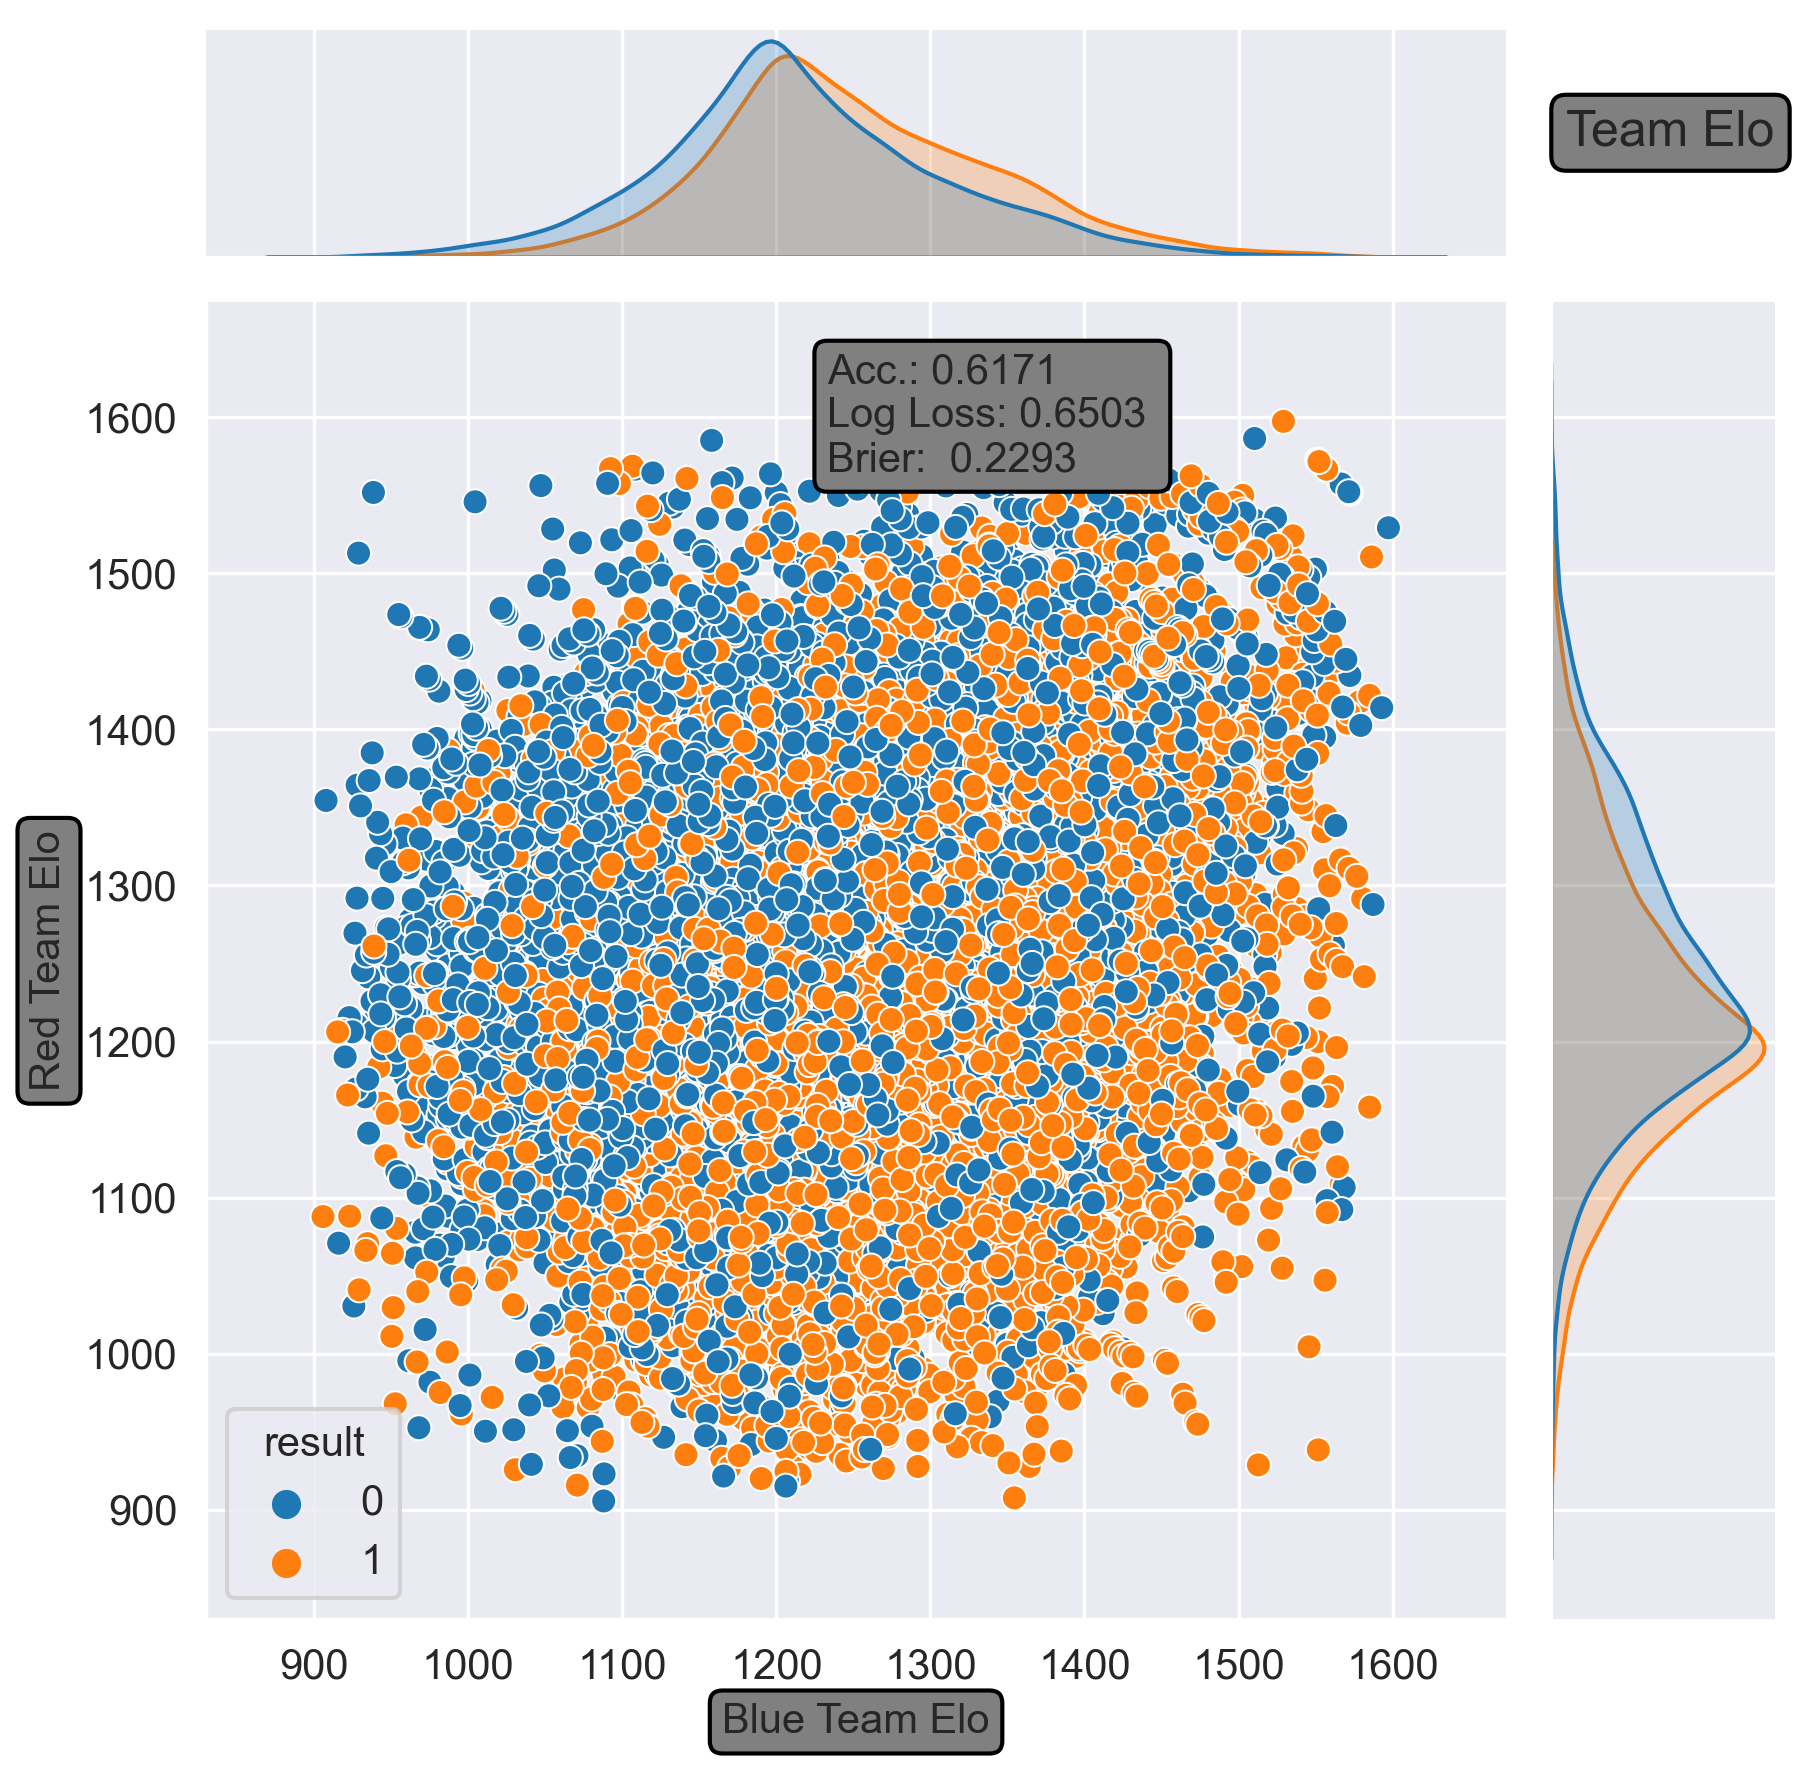
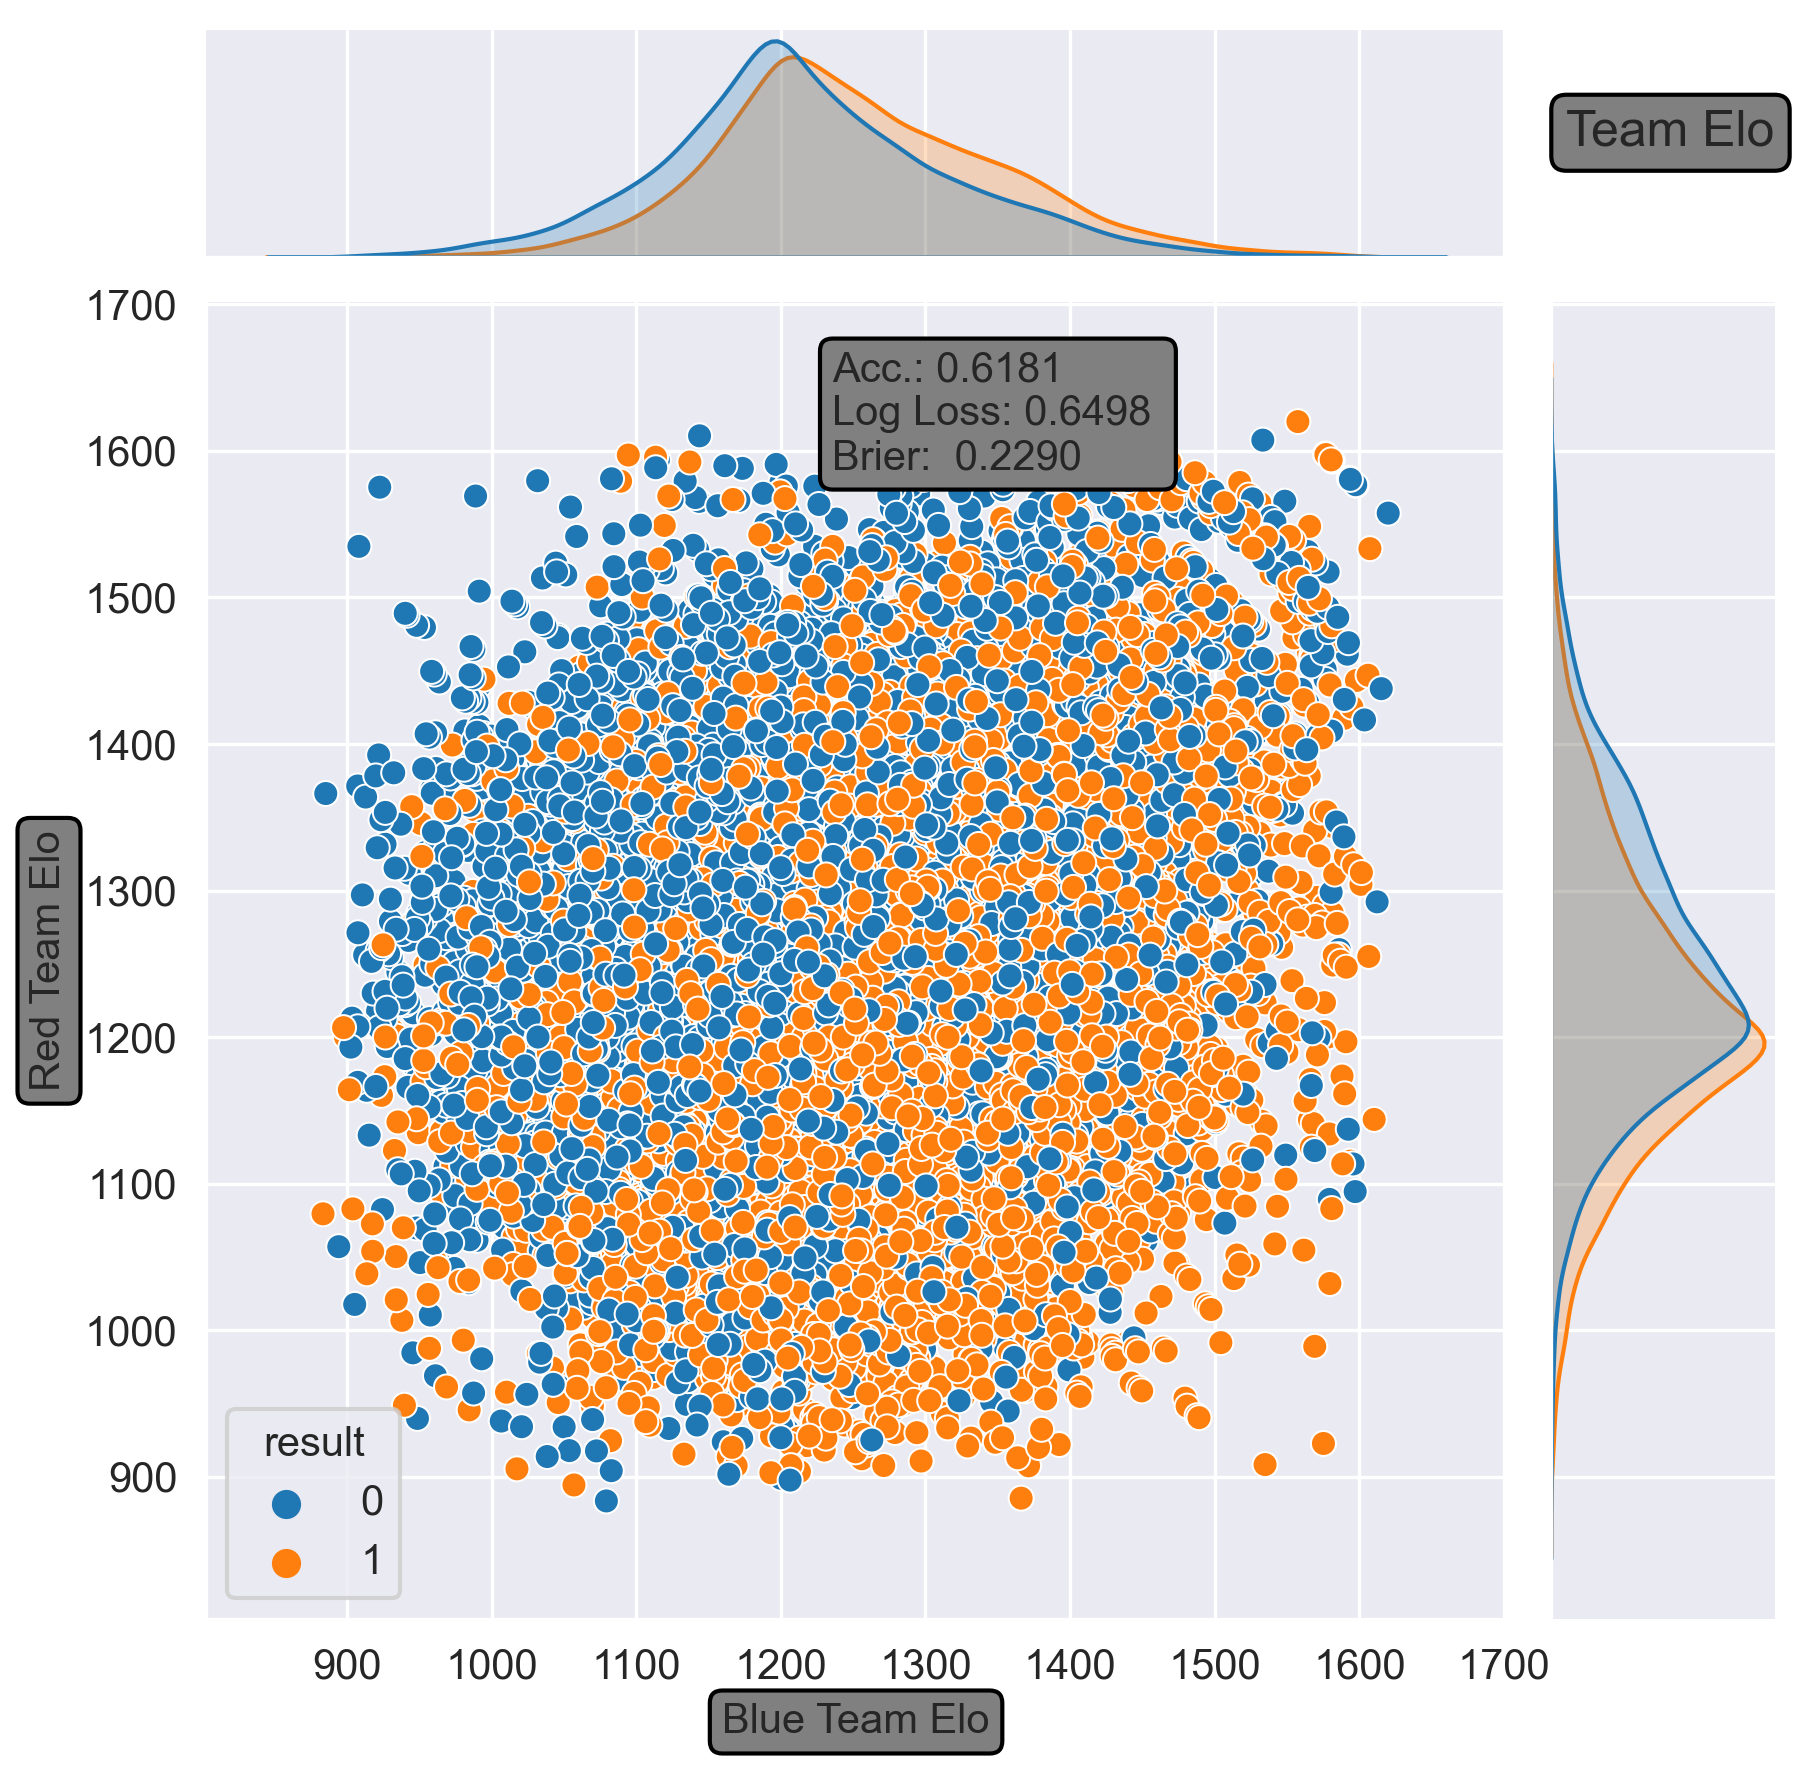
Ensemble Formula Upgrades
k-values for player and team elo both updated from 28 to 32. EGPM Dominance model shifted from a traditional probability formula over to using a new logistic regression classifier.

diff --git a/src/lol_modeling.py b/src/lol_modeling.py
@@ -21,9 +21,13 @@ This code is intended to be imported into your analytics projects.
 import itertools
 import math
 import numpy as np
-from pandas import DataFrame
-import src.oracles_elixir as oe
 import pandas as pd
+from pandas import DataFrame
+from pathlib import Path
+import pickle
+import src.oracles_elixir as oe
+from sklearn.linear_model import LogisticRegression
+from sklearn.model_selection import train_test_split
 import trueskill
 from typing import Optional, Tuple, Dict, Any
 
@@ -46,7 +50,7 @@ def q90(x: pd.Series) -> np.ndarray:
 
 
 def elo_calculator(df: pd.DataFrame, entity: str,
-                   start_elo: int = 1200, k: int = 28,
+                   start_elo: int = 1200, k: int = 32,
                    league_modifiers: Optional[dict] = None) -> pd.DataFrame:
     """
     Calculate elo from Pandas dataframe.
@@ -60,7 +64,7 @@ def elo_calculator(df: pd.DataFrame, entity: str,
         start_elo: int
             Identifies the starting Elo (default=1200)
         k: int
-            The k-factor for the elo calculation (default=28)
+            The k-factor for the elo calculation (default=32)
         league_modifiers: dict
             Dictionary containing League names as the keys and weights from 0 to 1 as values.
     """
@@ -136,7 +140,7 @@ def elo_calculator(df: pd.DataFrame, entity: str,
     return elo_dataframe
 
 
-def team_elo(df: pd.DataFrame, start: int = 1200, k: int = 28) -> pd.DataFrame:
+def team_elo(df: pd.DataFrame, start: int = 1200, k: int = 32) -> pd.DataFrame:
     """
     Calculate team elo across a dataframe of Oracle's Elixir data.
 
@@ -148,7 +152,7 @@ def team_elo(df: pd.DataFrame, start: int = 1200, k: int = 28) -> pd.DataFrame:
         Integer value representing the starting / initial elo value.
     k: Integer
         Integer representing how much elo is gained/lost per match.
-        Testing suggests that 28 is an appropriate score for League games.
+        Testing suggests that 32 is an appropriate score for League games.
         Please research how elo is calculated before you modify.
 
     Returns
@@ -191,7 +195,7 @@ def team_elo(df: pd.DataFrame, start: int = 1200, k: int = 28) -> pd.DataFrame:
     return df
 
 
-def player_elo(df: pd.DataFrame, start: int = 1200, k: int = 28) -> pd.DataFrame:
+def player_elo(df: pd.DataFrame, start: int = 1200, k: int = 32) -> pd.DataFrame:
     """
     Calculate elo for a player dataframe.
 
@@ -203,7 +207,7 @@ def player_elo(df: pd.DataFrame, start: int = 1200, k: int = 28) -> pd.DataFrame
         Integer value representing the starting / initial elo value.
     k: Integer
         Integer representing how much elo is gained/lost per match.
-        Testing suggests that 28 is an appropriate score for League games.
+        Testing suggests that 32 is an appropriate score for League games.
         Please research how elo is calculated before you modify.
 
     Returns
@@ -689,41 +693,55 @@ def egpm_model(data: pd.DataFrame, entity: str) -> pd.DataFrame:
     # Data Setup
     if entity == 'team':
         identity = 'teamid'
-        elo = 'team_elo_before'
-        opp_elo = data['team_elo_before'] - data['team_elo_diff']
+        rank = data['trueskill_sum_mu']
+        opp_rank = data['opponent_sum_mu']
     elif entity == 'player':
         identity = 'playerid'
-        elo = 'player_elo_before'
-        opp_elo = data['player_elo_before'] - data['player_elo_diff']
+        rank = data['trueskill_mu']
+        opp_rank = data['opponent_mu']
     else:
         raise ValueError('Entity must be either PLAYER or TEAM.')
 
-    data['egpm_dominance_ratio'] = (data['earned gpm'] /
-                                    (opp_elo /
-                                     data[elo]))
-    data['opp_egpm_dominance_ratio'] = (data['opponent_egpm'] /
-                                        (data[elo] /
-                                         opp_elo))
+    data['egpm_dominance_ratio'] = (data['earned gpm'] / (opp_rank / rank))
+    data['opp_egpm_dominance_ratio'] = (data['opponent_egpm'] / (rank / opp_rank))
     data['egpm_dominance_ema_before'] = (data.groupby([identity])
                                          ['egpm_dominance_ratio']
                                          .transform(lambda x: x.ewm(halflife=5, ignore_na=True)
                                                     .mean().shift().bfill()))
+    data['egpm_dominance_ema_before'] = data['egpm_dominance_ema_before'].fillna(0)
     data['egpm_dominance_ema_after'] = (data.groupby([identity])
                                         ['egpm_dominance_ratio']
                                         .transform(lambda x: x.ewm(halflife=5, ignore_na=True).mean()))
+    data['egpm_dominance_ema_after'] = data['egpm_dominance_ema_after'].fillna(0)
     data['opp_egpm_dominance_ema_before'] = (data.groupby([identity])
                                              ['opp_egpm_dominance_ratio']
                                              .transform(lambda x: x.ewm(halflife=5, ignore_na=True)
                                                         .mean().shift().bfill()))
+    data['opp_egpm_dominance_ema_before'] = data['opp_egpm_dominance_ema_before'].fillna(0)
     data['opp_egpm_dominance_ema_after'] = (data.groupby([identity])
                                             ['opp_egpm_dominance_ratio']
                                             .transform(lambda x: x.ewm(halflife=5, ignore_na=True).mean()))
+    data['opp_egpm_dominance_ema_after'] = data['opp_egpm_dominance_ema_after'].fillna(0)
 
     data['egpm_dominance_win_perc'] = (data['egpm_dominance_ema_before'] /
                                        (data['egpm_dominance_ema_before'] +
                                         data['opp_egpm_dominance_ema_before']))
     data['egpm_dominance_win_perc'] = data['egpm_dominance_win_perc'].fillna(0.5)
     data['egpm_dominance_diff'] = data['egpm_dominance_ema_before'] - data['opp_egpm_dominance_ema_before']
+
+    # Train Logistic Regression
+    X = data[["egpm_dominance_ema_before", "opp_egpm_dominance_ema_before"]]
+    y = data.result
+
+    clf = LogisticRegression()
+    clf.fit(X, y)
+    #print(clf.score(X, y))
+    probabilities = clf.predict_proba(X)
+    data['egpm_dom_logistic_win_perc'] = probabilities[:, 1]
+
+    # Export Model Pickle File
+    filepath = Path.cwd().parent.joinpath('models', 'egpm_dom_logistic_regression.csv')
+    pickle.dump(clf, open(filepath, 'wb'))
 
     return data
 

diff --git a/src/match_predictor.py b/src/match_predictor.py
@@ -10,16 +10,27 @@ Tim provides an invaluable service to the League community.
 # Housekeeping
 import itertools
 import math
+import numpy as np
 import pandas as pd
+from pathlib import Path
+import pickle
 from scipy.stats import norm
+from sklearn.linear_model import LogisticRegression
 from src.team import Team
 from src.model_validator import generate_validation_metrics
 
 pd.options.display.float_format = '{:,.4f}'.format
 pd.set_option("display.max_rows", None, "display.max_columns", None)
 
+# Load EGPM Dominance Model
+filepath = Path.cwd().parent.joinpath('models', 'egpm_dom_logistic_regression.csv')
+egpm_model = pickle.load(open(filepath, 'rb'))
 
 def predict_match(blue: Team, red: Team) -> pd.DataFrame:
+    def standard_prediction(blue_stat: float, red_stat: float) -> float:
+        blue_win_perc = (blue_stat / (blue_stat + red_stat))
+        return blue_win_perc
+
     def elo_prediction(blue_team_elo: float, red_team_elo: float) -> float:
         blue_win_perc = 1.0 / (1 + 10 ** ((red_team_elo - blue_team_elo) / 400))
         return blue_win_perc
@@ -32,8 +43,9 @@ def predict_match(blue: Team, red: Team) -> pd.DataFrame:
         blue_win_perc = norm.cdf(delta_mu / denominator)
         return blue_win_perc
 
-    def standard_prediction(blue_stat: float, red_stat: float) -> float:
-        blue_win_perc = (blue_stat / (blue_stat + red_stat))
+    def egpm_dom_prediction(blue_team_egpm_dom: float, red_team_egpm_dom: float) -> float:
+        X = np.array([blue_team_egpm_dom, red_team_egpm_dom]).reshape(1, -1)
+        blue_win_perc = egpm_model.predict_proba(X)[:, 1]
         return blue_win_perc
 
     weights = generate_validation_metrics(graph=False)
@@ -46,7 +58,7 @@ def predict_match(blue: Team, red: Team) -> pd.DataFrame:
                                                                     red.player_trueskill_mu,
                                                                     red.player_trueskill_sigma,
                                                                     sigma_value=2.75)],
-                          "team_egpm_dom": [standard_prediction(blue.team_egpm_dom, red.team_egpm_dom)],
+                          "team_egpm_dom": [egpm_dom_prediction(blue.team_egpm_dom, red.team_egpm_dom)],
                           "player_egpm_dom": [standard_prediction(blue.player_egpm_dom, red.player_egpm_dom)],
                           "side_win": [standard_prediction(blue.side_win_rate, red.side_win_rate)]})
 
@@ -55,11 +67,11 @@ def predict_match(blue: Team, red: Team) -> pd.DataFrame:
         sum_accuracy = (weights["team_accuracy"] + weights["player_accuracy"] + weights["trueskill_accuracy"] +
                         weights["egpm_dom_accuracy"] + weights["side_ema_accuracy"])
 
-        match["blue_win_chance"] = ((match["team_elo"] * (weights["team_accuracy"] / sum_accuracy)) +
-                                    (match["player_elo"] * (weights["player_accuracy"] / sum_accuracy)) +
-                                    (match["player_trueskill"] * (weights["trueskill_accuracy"] / sum_accuracy)) +
-                                    (match["team_egpm_dom"] * (weights["egpm_dom_accuracy"] / sum_accuracy)) +
-                                    (match["side_win"] * (weights["side_ema_accuracy"] / sum_accuracy)))
+        match["blue_win_chance"] = float(((match["team_elo"] * (weights["team_accuracy"] / sum_accuracy)) +
+                                          (match["player_elo"] * (weights["player_accuracy"] / sum_accuracy)) +
+                                          (match["player_trueskill"] * (weights["trueskill_accuracy"] / sum_accuracy)) +
+                                          (match["team_egpm_dom"] * (weights["egpm_dom_accuracy"] / sum_accuracy)) +
+                                          (match["side_win"] * (weights["side_ema_accuracy"] / sum_accuracy))))
 
         match["deviation"] = match[["team_elo", "player_elo", "player_trueskill", "team_egpm_dom", "side_win"]].std(
             axis=1)

diff --git a/src/model_validator.py b/src/model_validator.py
@@ -238,16 +238,16 @@ def validate_egpm_dominance(teams: pd.DataFrame, directory: Path, graph: bool):
         Variable describing the Brier loss score, as defined by sklearn.metrics, of the model.
     """
     # Data Preparation
-    teams['egpm_dominance_expected_result'] = np.where(teams['egpm_dominance_win_perc'] >= 0.5, 1, 0)
-    teams['egpm_dominance_expected_result'] = np.where((teams['egpm_dominance_win_perc'] == 0.5) &
+    teams['egpm_dominance_expected_result'] = np.where(teams['egpm_dom_logistic_win_perc'] >= 0.5, 1, 0)
+    teams['egpm_dominance_expected_result'] = np.where((teams['egpm_dom_logistic_win_perc'] == 0.5) &
                                                        (teams['side'] == 'Red'), 0,
                                                        teams['egpm_dominance_expected_result'])
     teams['result'] = teams.result.astype('int32')
 
     # Label Accuracy and Log Loss
     correct = len(teams[teams['egpm_dominance_expected_result'] == teams['result']]) / len(teams)
-    logloss = log_loss(teams['result'], teams['egpm_dominance_win_perc'], labels=[0, 1])
-    brier = brier_score_loss(teams['result'], teams['egpm_dominance_win_perc'])
+    logloss = log_loss(teams['result'], teams['egpm_dom_logistic_win_perc'], labels=[0, 1])
+    brier = brier_score_loss(teams['result'], teams['egpm_dom_logistic_win_perc'])
 
     # Generate Graph
     if graph:
@@ -387,7 +387,7 @@ def validate_ensemble_accuracy(teams: pd.DataFrame,
     teams['ensemble_win_perc'] = ((teams['team_elo_win_perc'] * (team_accuracy / sum_accuracy)) +
                                   (teams['player_elo_win_perc'] * (player_accuracy / sum_accuracy)) +
                                   (teams['trueskill_win_perc'] * (trueskill_accuracy / sum_accuracy)) +
-                                  (teams['egpm_dominance_win_perc'] * (egpm_dom_accuracy / sum_accuracy)) +
+                                  (teams['egpm_dom_logistic_win_perc'] * (egpm_dom_accuracy / sum_accuracy)) +
                                   (teams['side_ema_win_perc'] * (side_ema_accuracy / sum_accuracy)))
     teams['opp_ensemble_win_perc'] = 1 - teams['ensemble_win_perc']
     teams['ensemble_expected_result'] = np.where(teams['ensemble_win_perc'] >= 0.5, 1, 0)

diff --git a/src/predictor_bot.py b/src/predictor_bot.py
@@ -125,6 +125,36 @@ async def predict_verbose(ctx, blue_team, blue1, blue2, blue3, blue4, blue5, red
     await message.edit(content=output)
 
 
+@bot.command(name='predict_team')
+async def predict_team(ctx, blue_team, red_team):
+    prelim = "```Calculating...```"
+    message = await ctx.send(content=prelim)
+
+    try:
+        blue = Team(name=blue_team)
+        red = Team(name=red_team)
+
+        output = mp.predict_match(blue, red)
+        output = "```ProjektZero Model Predictions: \n \n" \
+                 f"{output.copy().to_markdown()}"
+
+        if blue.warning:
+            output += f"\n{blue.warning}"
+        if red.warning:
+            output += f"\n{red.warning}"
+
+        output += "\n \nNOTE: Predictions use the last fielded roster. Try !predict if you need substitutions." \
+                  "\nNOTE: Win percentages are for Bo1 format. Use the !best_of to get Bo3/Bo5 odds if needed." \
+                  "\nPlease consider supporting my obsessive coding habit at:" \
+                  "\n \thttps://www.buymeacoffee.com/projektzero``` "
+    except Exception as e:
+        output = f"Something went wrong, sorry about that. \n" \
+                 "If this is still breaking, ping ProjektZero for support. \n" \
+                 "Error: \n" \
+                 f"```{e}```"
+    await message.edit(content=output)
+
+
 @bot.command(name='mock_draft')
 async def mock_draft(ctx, blue1, blue2, blue3, blue4, blue5,
                      red1, red2, red3, red4, red5):
